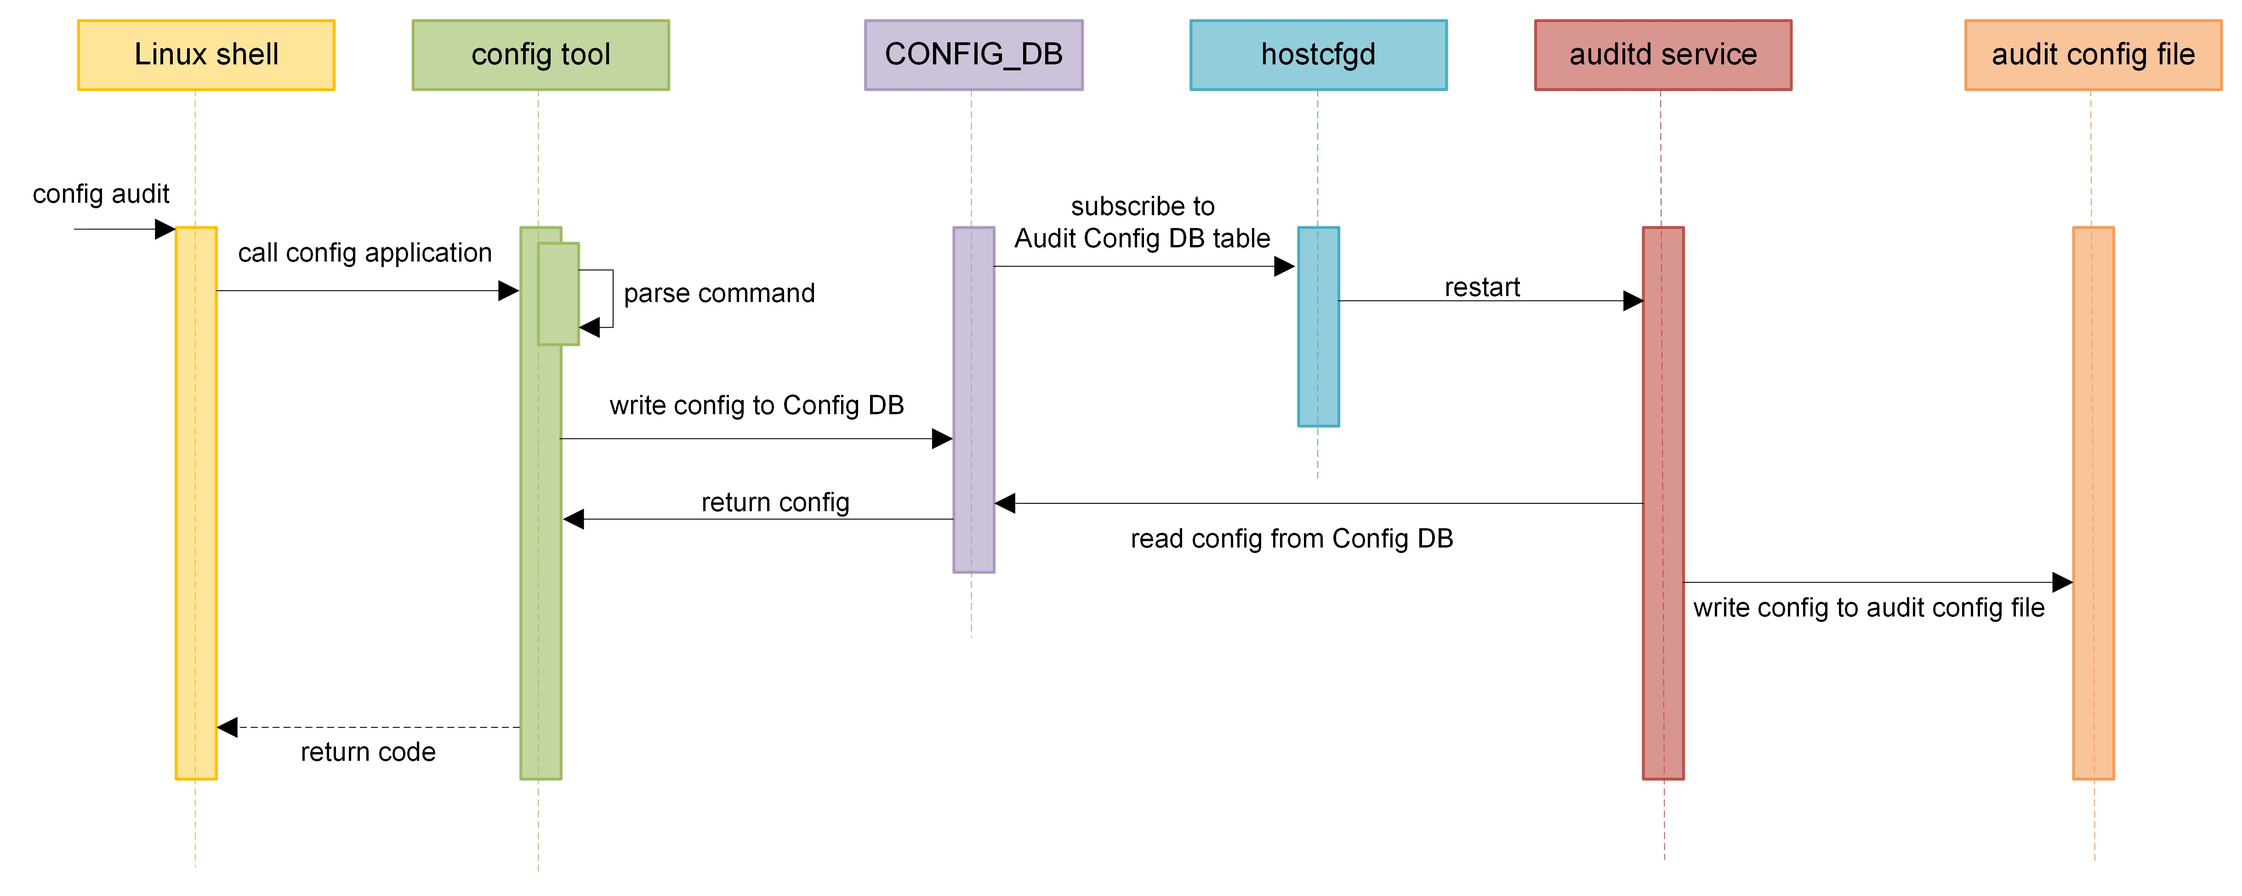
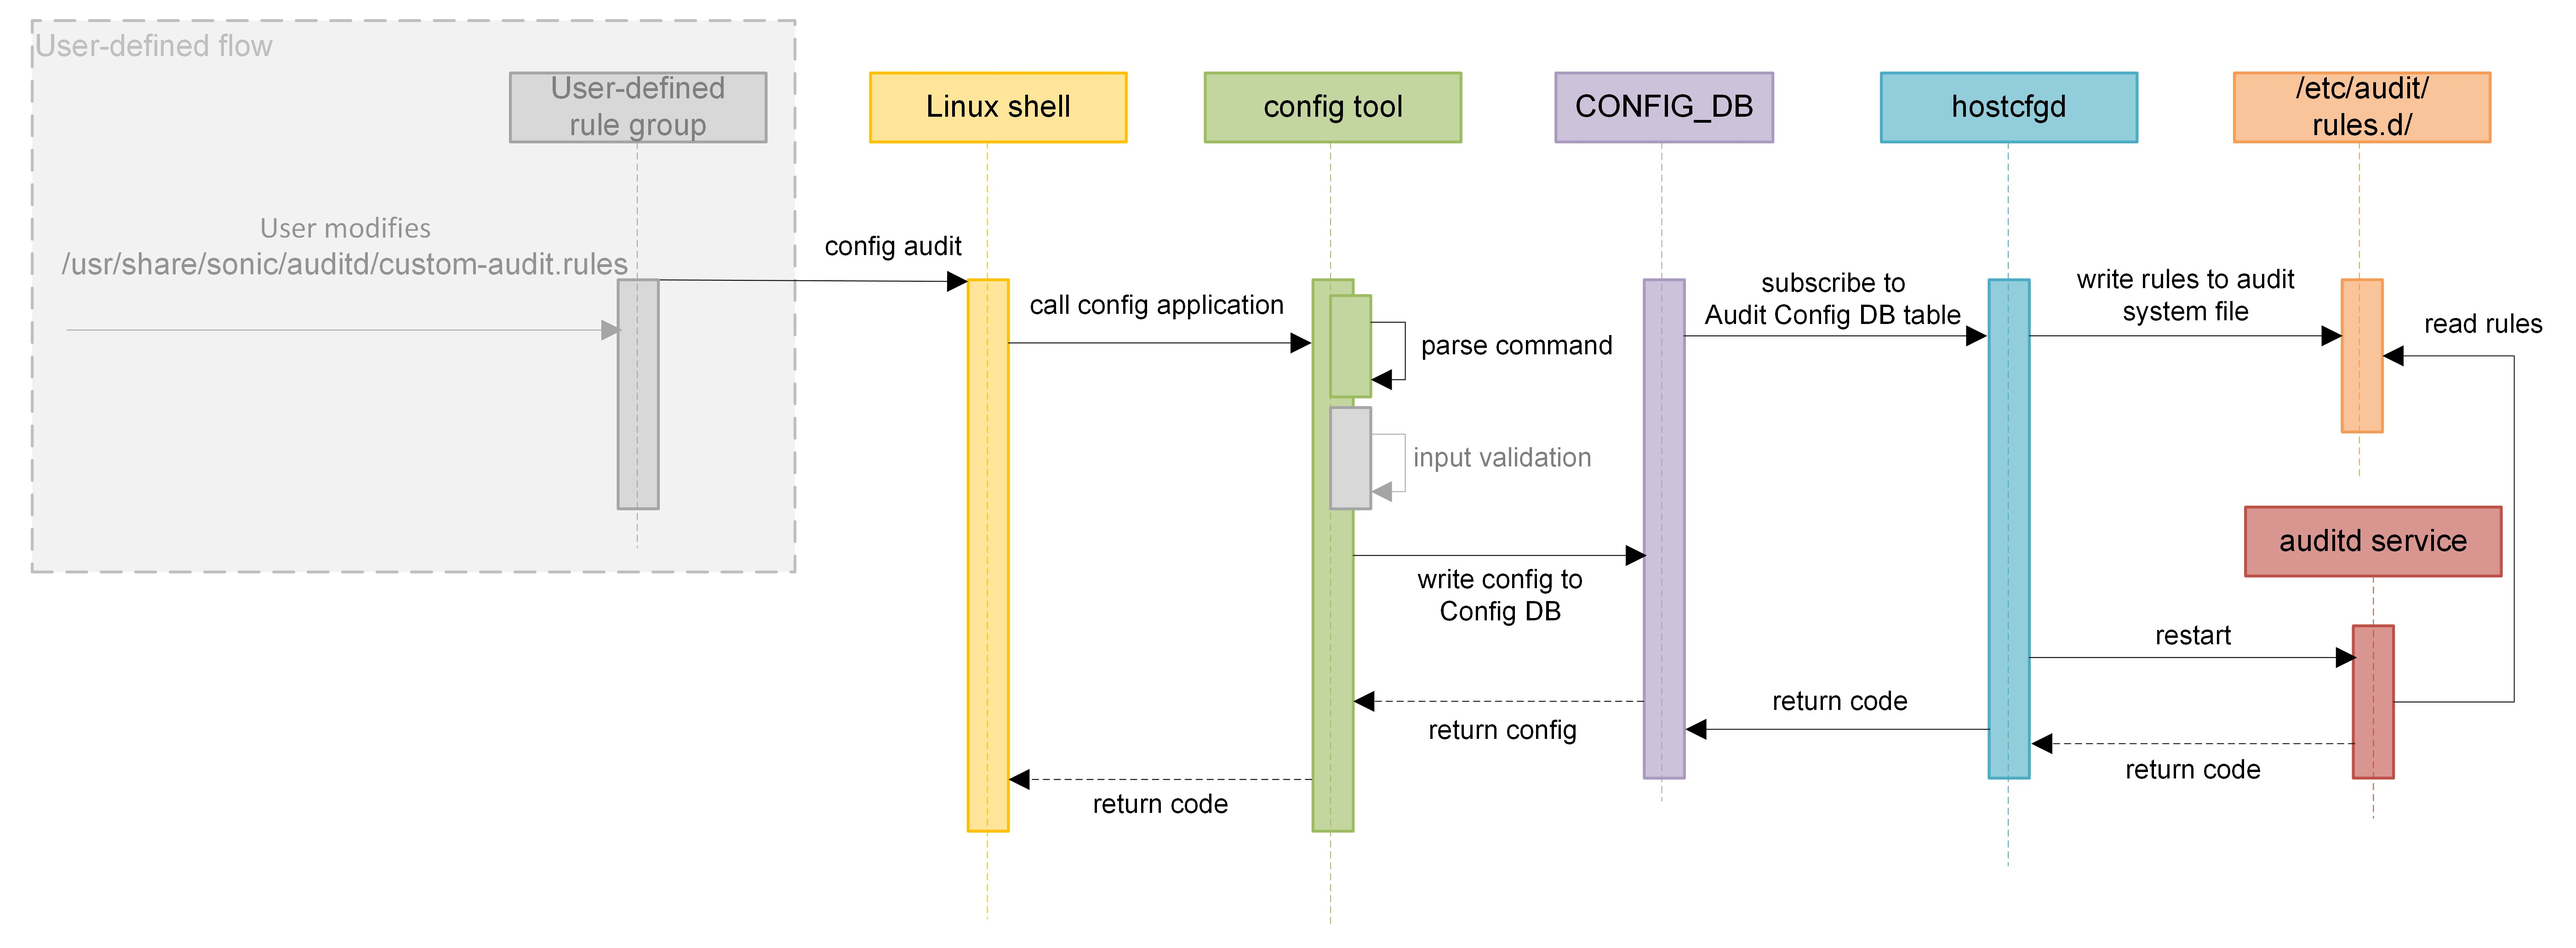
add more details

Changed region(s): [[0.0312, 0.2155, 0.9971, 0.8928], [0.0, 0.0, 0.9971, 0.1539]]

diff --git a/doc/audit/security_auditing_HLD.md b/doc/audit/security_auditing_HLD.md
@@ -70,7 +70,7 @@ In SONiC, audit settings are centrally managed through a configuration file at `
   - The hardcoded default rule files include: `critical_files.rules`, `dns_changes.rules`, `time_changes.rules`, `shutdown_reboot.rules`, `cron_changes.rules`, `modules_changes.rules`, `auth_logs.rules`, `bin_changes.rules`, `user_group_management.rules`, `file_deletion.rules`, `log_changes.rules`, `docker_changes.rules`, `process_audit.rules`, `network_activity.rules`, `socket_activity.rules`.
   - Users will NOT have permission to modify these files.
 - Users will have the ability to define custom rules for more fine-grained control, but this feature will be disabled by default.
-  - An empty custom rules file, custom-audit.rules, will be provided under the /usr/share/sonic/auditd/ directory.
+  - An empty custom rules file, `custom_audit.rules`, will be provided under the `/usr/share/sonic/auditd/` directory.
   - Users will have permission to modify this file.
 - Modify the `/etc/audit/plugins.d/syslog.conf` file by setting `active = yes` to enable the forwarding of auditd logs to a syslog server.
 - ConfigDB schema design, new AUDIT table in Config DB
@@ -268,6 +268,26 @@ module sonic-audit {
 
 ###### Figure 3: Audit Config Flow
 
+**Hardcoded default rule group**
+Hardcoded default rules files will be stored under the `/usr/share/sonic/auditd/` directory.
+
+The hardcoded default rule files include: `critical_files.rules`, `dns_changes.rules`, `time_changes.rules`, `shutdown_reboot.rules`, `cron_changes.rules`, `modules_changes.rules`, `auth_logs.rules`, `bin_changes.rules`, `user_group_management.rules`, `file_deletion.rules`, `log_changes.rules`, `docker_changes.rules`, `process_audit.rules`, `network_activity.rules`, `socket_activity.rules`.
+  
+Users will NOT have permission to modify these files.
+
+To enable, users may simply use `sudo config audit enable --group <group-name>`. hostcfgd will copy rule file from `/usr/share/sonic/auditd/` to `/etc/audit/rules.d/` and restart auditd service.
+
+To disable, users may simply use `sudo config audit disable --group <group-name>`. hostcfgd will remove rule file from `/etc/audit/rules.d/` and restart auditd service.
+
+**User-defined custom rule group**
+User-defined custom rule files will be stored under the `/usr/share/sonic/auditd/` directory, named `custom_audit.rules`
+  
+Users will have permission to modify this custom file.
+
+To enable, users may 1) modify `custom_audit.rules` file and 2) execute `sudo config audit enable --group custom_audit`. click CLI will validate input in `custom_audit.rules` file. hostcfgd will copy `custom_audit.rules` file from `/usr/share/sonic/auditd/` to `/etc/audit/rules.d/` and restart auditd service.
+
+To disable, users may 1) empty/remove `custom_audit.rules` file and 2) execute `sudo config audit disable --group custom_audit`. click CLI will validate input in `custom_audit.rules` file. hostcfgd will remove `custom_audit.rules` file from `/etc/audit/rules.d/` and restart auditd service.
+
 ##### 3.3.3.3 Audit Show Flow
 <img src="./audit_show_flow.jpeg" alt="Audit Show Flow" width="500" height="400">
 
@@ -341,30 +361,30 @@ module sonic-audit {
   config audit disable [OPTIONS] [--all | --group <group_name>]
   ```
 
-- `config audit enable --all` - This command enables all predefined security audit rule groups, excluding the `custom_audit.rules` group. The default rule set is automatically applied, but custom user-defined rules are not affected by this command.
+- `config audit enable --all` - This command enables all predefined security audit rule groups.
   ```
   admin@sonic:~$ config audit enable --all
   Default security auditing is enabled.
   ```
 
-- `config audit disable --all` - This command disables or removes all predefined security audit rule groups, except for the `custom_audit.rules` group. This stops the monitoring of the default system activities defined in the hardcoded rules.
+- `config audit disable --all` - This command disables or removes all predefined security audit rule groups.
   ```
   admin@sonic:~$ config audit disable --all
   Default security auditing is disabled.
   ```
 
-- `config audit enable --group <group-name>` - This command enables a specific security audit rule group identified by `<group-name>`. For instance, enabling the network_activity group will monitor and log all network-related activities. This command also applies for `custom_audit.rules`
+- `config audit enable --group <group-name>` - This command enables a specific security audit rule group identified by `<group-name>`. For instance, enabling the network_activity group will monitor and log all network-related activities.
   ```
   admin@sonic:~$ config audit enable --group "network_activity"
   network_activity auditing is enabled.
   ```
 
-- `config audit disable --group <group-name>` - This command disables a specific security audit rule group identified by `<group-name>`. The selected group will stop logging the associated activities. This command also applies for `custom_audit.rules`
+- `config audit disable --group <group-name>` - This command disables a specific security audit rule group identified by `<group-name>`. The selected group will stop logging the associated activities.
   ```
   admin@sonic:~$ config audit disable --group "network_activity"
   network_activity auditing is disabled.
   ```
-
+ 
 #### 3.3.5 Logrotate
 The following settings in the `/etc/logrotate.d/audit` file set up log rotation for audit logs:
 ```
@@ -427,31 +447,31 @@ Monitor memory and CPU utilization for auditd and kauditd processes over an hour
 Number of logs per key
 | Audit Key | Count By Key |
 |-----------|---------------|
-| network_activity |	72021|
-| socket_activity |	3312 |
-| user_group_management	| 801 |
-| process_audit	| 729 |
-| file_deletion	| 529 |
-| tacplus	| 259 |
-| log_changes	| 199 |
+| network_activity | 72021|
+| socket_activity | 3312 |
+| user_group_management | 801 |
+| process_audit | 729 |
+| file_deletion | 529 |
+| tacplus | 259 |
+| log_changes | 199 |
 | docker_storage | 156 |
 | cron_changes | 6 |
-| shutdown_reboot |	4 |
-| modules	| 3 |
-| auth_logs	| 1 |
-| bin_changes	| 1 |
+| shutdown_reboot | 4 |
+| modules | 3 |
+| auth_logs | 1 |
+| bin_changes | 1 |
 | time_changes | 1 |
-| dns_changes	| 1 |
+| dns_changes | 1 |
 | sbin_changes | 1 |
 | usr_bin_changes | 1 |
 | usr_sbin_changes | 1 |
 | docker_socket | 1 |
 | docker_commands | 1 |
 | docker_service | 1 |
-| hosts_changes	| 1 |
-| sudoers_changes	| 1 |
-| docker_config	| 1 |
-| docker_daemon	| 1 |
+| hosts_changes | 1 |
+| sudoers_changes | 1 |
+| docker_config | 1 |
+| docker_daemon | 1 |
 
 Processes in network_activity key
 | Process | Count By Process |
@@ -462,26 +482,26 @@ Processes in network_activity key
 | /usr/bin/python3.9 | 7313 |
 | /usr/bin/vtysh | 809 |
 | /usr/bin/redis-check-rdb | 485 |
-| /usr/bin/docker	| 354 |
+| /usr/bin/docker | 354 |
 | /usr/bin/teamd | 322 |
-| /usr/sbin/lldpd	| 307 |
+| /usr/sbin/lldpd | 307 |
 | /usr/sbin/audisp-tacplus | 276 |
 | /usr/bin/sudo | 190 |
 | /usr/sbin/sshd | 174 |
-| /usr/bin/eventd	| 166 |
-| /usr/bin/bash	| 116 |
-| /bin/bash	| 114 |
+| /usr/bin/eventd | 166 |
+| /usr/bin/bash | 116 |
+| /bin/bash | 114 |
 | /usr/sbin/auditctl| 68 |
-| /usr/sbin/lldpcli	| 55 |
-| /usr/lib/frr/bgpd	| 44 |
+| /usr/sbin/lldpcli | 55 |
+| /usr/lib/frr/bgpd | 44 |
 | /usr/sbin/ntpd | 37 |
 | /usr/lib/frr/zebra | 35 |
 | /usr/bin/monit | 35 |
 | /usr/lib/frr/staticd | 29 |
 | /usr/sbin/cron | 19 |
 | /usr/bin/systemctl | 15 |
-| /usr/bin/rsyslog_plugin	| 12 |
-| /usr/sbin/usermod	| 2 |
+| /usr/bin/rsyslog_plugin | 12 |
+| /usr/sbin/usermod | 2 |
 | /usr/bin/syncd | 2 |
 
 ### 3.9 Audit Rule Order
